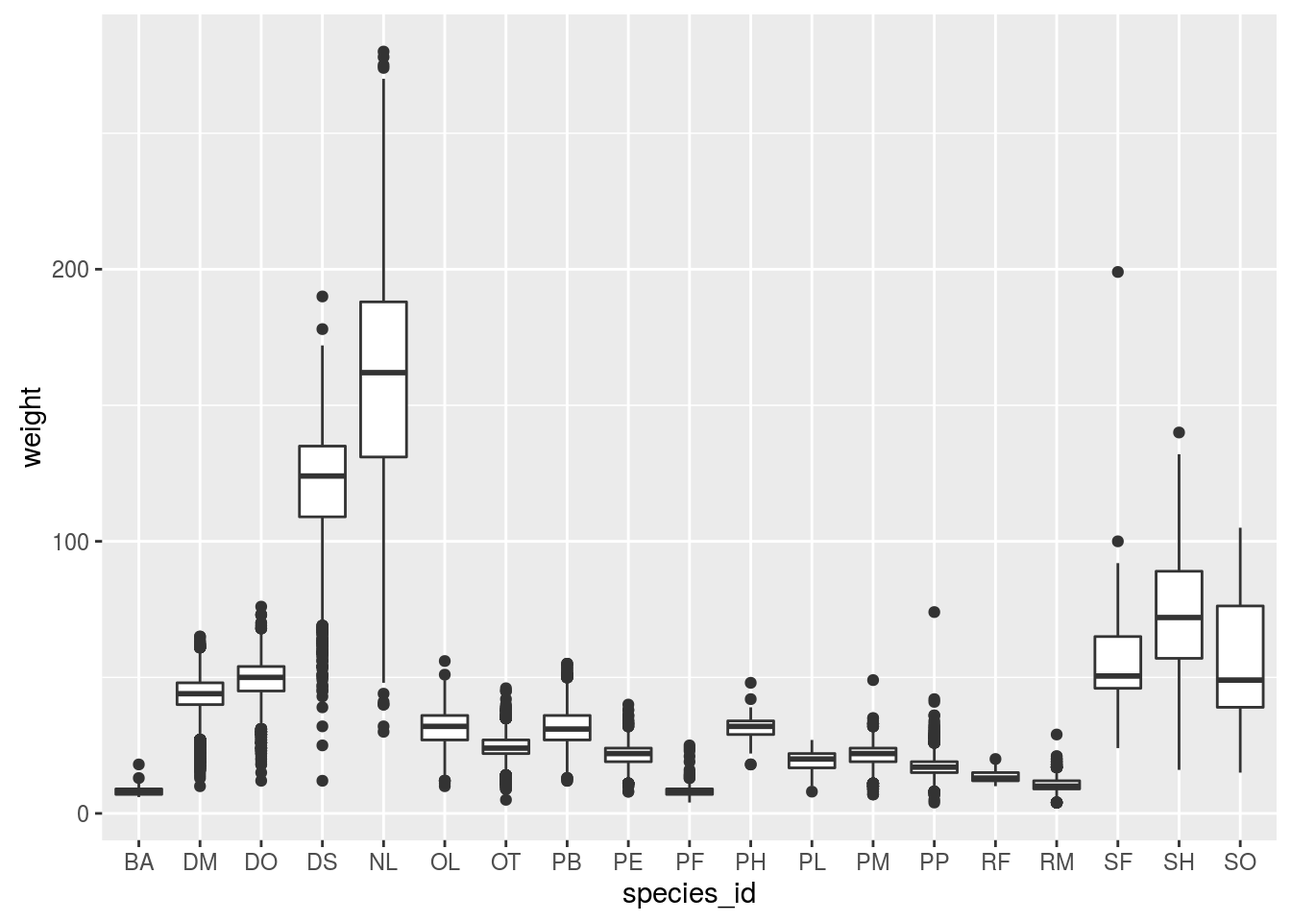
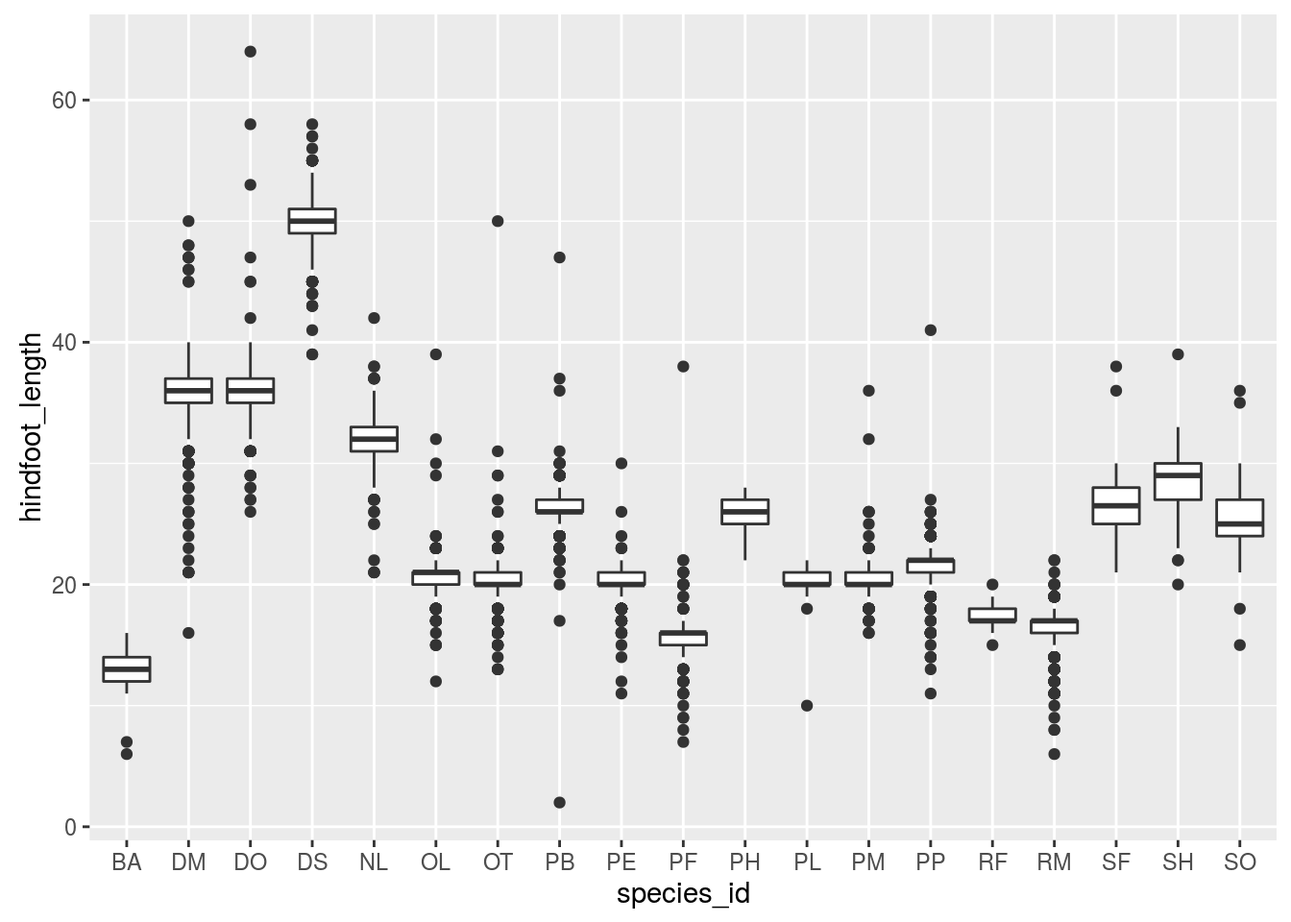
Update ggplot2 (5) tutorial
Added more interesting use of `+` operator for modifying ggplot. This is
a key point for ggplot's usability that was conspicuously absent from
the original tutorial, and I think makes the tutorial easier to follow
(since the improvements are more obviously incremental). I also added a
few other minor changes, such as adding a brief discussion of
`facet_grid` vs. `facet_wrap`.

diff --git a/05-visualization-ggplot2.html b/05-visualization-ggplot2.html
@@ -7,7 +7,7 @@
 <meta charset="utf-8">
 <meta http-equiv="Content-Type" content="text/html; charset=utf-8" />
 <meta name="generator" content="pandoc" />
-<meta name="viewport" content="width=device-width, initial-scale=1">
+
 
 
 
@@ -66,25 +66,7 @@ code > span.in { color: #8f5902; font-weight: bold; font-style: italic; } /* Inf
 </style>
 
 
-
-</head>
-
-<body>
-
-<style type = "text/css">
-.main-container {
-  max-width: 940px;
-  margin-left: auto;
-  margin-right: auto;
-}
-code {
-  color: inherit;
-  background-color: rgba(0, 0, 0, 0.04);
-}
-img {
-  max-width:100%;
-  height: auto;
-}
+<style type="text/css">
 h1 {
   font-size: 34px;
 }
@@ -105,6 +87,30 @@ h5 {
 }
 h6 {
   font-size: 12px;
+}
+.table th:not([align]) {
+  text-align: left;
+}
+</style>
+
+
+</head>
+
+<body>
+
+<style type = "text/css">
+.main-container {
+  max-width: 940px;
+  margin-left: auto;
+  margin-right: auto;
+}
+code {
+  color: inherit;
+  background-color: rgba(0, 0, 0, 0.04);
+}
+img {
+  max-width:100%;
+  height: auto;
 }
 .tabbed-pane {
   padding-top: 12px;
@@ -135,7 +141,8 @@ $(document).ready(function () {
 <div class="fluid-row" id="header">
 
 
-<h1 class="title">Data visualization with ggplot2</h1>
+
+<h1 class="title toc-ignore">Data visualization with ggplot2</h1>
 <h3 class="subtitle"><em>Visualizing data in R with the ggplot2 package</em></h3>
 
 </div>
@@ -154,7 +161,7 @@ $(document).ready(function () {
 <p>Authors: <strong>Mateusz Kuzak</strong>, <strong>Diana Marek</strong>, <strong>Hedi Peterson</strong></p>
 <div id="disclaimer" class="section level4">
 <h4>Disclaimer</h4>
-<p>We will be using the functions in the ggplot2 package. There are basic plotting capabilities in basic R, but ggplot2 adds more powerful plotting capabilities.</p>
+<p>We will be using the functions in the ggplot2 package. R has powerful built-in plotting capabilities, but for this exercise, we will be using the ggplot2 package, which facilitates the creation of highly-informative plots of structured data.</p>
 <blockquote>
 <h3 id="learning-objectives">Learning Objectives</h3>
 <ul>
@@ -234,37 +241,46 @@ surveys_complete &lt;-<span class="st"> </span>surveys_complete %&gt;%
 <div class="sourceCode"><pre class="sourceCode r"><code class="sourceCode r"><span class="kw">ggplot</span>(<span class="dt">data =</span> surveys_complete, <span class="kw">aes</span>(<span class="dt">x =</span> weight, <span class="dt">y =</span> hindfoot_length)) +
 <span class="st">  </span><span class="kw">geom_point</span>()</code></pre></div>
 <p><img src="img/R-ecology-first-ggplot-1.png" title="" alt="" width="672" /></p>
+<p>The <code>+</code> in the <code>ggplot2</code> package is particularly useful because it allows you to modify existing <code>ggplot</code> objects. This means you can easily set up plot “templates” and conveniently explore different types of plots, so the above plot can also be generated with code like this:</p>
+<div class="sourceCode"><pre class="sourceCode r"><code class="sourceCode r"><span class="co"># Create </span>
+surveys_plot &lt;-<span class="st"> </span><span class="kw">ggplot</span>(<span class="dt">data =</span> surveys_complete, <span class="kw">aes</span>(<span class="dt">x =</span> weight, <span class="dt">y =</span> hindfoot_length))
+
+<span class="co"># Draw the plot</span>
+surveys_plot +<span class="st"> </span><span class="kw">geom_point</span>()</code></pre></div>
 <p>Notes:</p>
 <ul>
 <li>Anything you put in the <code>ggplot()</code> function can be seen by any geom layers that you add. i.e. these are universal plot settings</li>
 <li>This includes the x and y axis you set up in <code>aes()</code></li>
+<li>Aesthetics (<code>aes()</code>) can also be added separately from the <code>ggplot()</code> function. In other words, the last plot above can also be achieved with the following code:</li>
 </ul>
+<div class="sourceCode"><pre class="sourceCode r"><code class="sourceCode r"><span class="kw">ggplot</span>(<span class="dt">data =</span> surveys_complete) +<span class="st"> </span>
+<span class="st">    </span><span class="kw">aes</span>(<span class="dt">x =</span> weight, <span class="dt">y =</span> hindfoot_length) +
+<span class="st">    </span><span class="kw">geom_point</span>()</code></pre></div>
 </div>
 <div id="modifying-plots" class="section level2">
 <h2>Modifying plots</h2>
+<p>First, following the notes from above, let’s create a ggplot “template” to prevent unnecessary redundancy in our code.</p>
+<div class="sourceCode"><pre class="sourceCode r"><code class="sourceCode r">surveys_plot &lt;-<span class="st"> </span><span class="kw">ggplot</span>(<span class="dt">data =</span> surveys_complete, <span class="kw">aes</span>(<span class="dt">x =</span> weight, <span class="dt">y =</span> hindfoot_length))</code></pre></div>
 <ul>
 <li>adding transparency (alpha)</li>
 </ul>
-<div class="sourceCode"><pre class="sourceCode r"><code class="sourceCode r"><span class="kw">ggplot</span>(<span class="dt">data =</span> surveys_complete, <span class="kw">aes</span>(<span class="dt">x =</span> weight, <span class="dt">y =</span> hindfoot_length)) +
-<span class="st">  </span><span class="kw">geom_point</span>(<span class="dt">alpha =</span> <span class="fl">0.1</span>)</code></pre></div>
+<div class="sourceCode"><pre class="sourceCode r"><code class="sourceCode r">surveys_plot +<span class="st"> </span><span class="kw">geom_point</span>(<span class="dt">alpha =</span> <span class="fl">0.1</span>)</code></pre></div>
 <p><img src="img/R-ecology-adding-transparency-1.png" title="" alt="" width="672" /></p>
 <ul>
 <li>adding colors</li>
 </ul>
-<div class="sourceCode"><pre class="sourceCode r"><code class="sourceCode r"><span class="kw">ggplot</span>(<span class="dt">data =</span> surveys_complete, <span class="kw">aes</span>(<span class="dt">x =</span> weight, <span class="dt">y =</span> hindfoot_length)) +
-<span class="st">  </span><span class="kw">geom_point</span>(<span class="dt">alpha =</span> <span class="fl">0.1</span>, <span class="dt">color =</span> <span class="st">&quot;blue&quot;</span>)</code></pre></div>
+<div class="sourceCode"><pre class="sourceCode r"><code class="sourceCode r">surveys_plot +<span class="st"> </span><span class="kw">geom_point</span>(<span class="dt">alpha =</span> <span class="fl">0.1</span>, <span class="dt">color =</span> <span class="st">&quot;blue&quot;</span>)</code></pre></div>
 <p><img src="img/R-ecology-adding-colors-1.png" title="" alt="" width="672" /></p>
 </div>
 <div id="boxplot" class="section level2">
 <h2>Boxplot</h2>
 <p>Visualising the distribution of weight within each species.</p>
-<div class="sourceCode"><pre class="sourceCode r"><code class="sourceCode r"><span class="kw">ggplot</span>(<span class="dt">data =</span> surveys_complete, <span class="kw">aes</span>(<span class="dt">x =</span> species_id,  <span class="dt">y =</span> weight)) +
-<span class="st">                   </span><span class="kw">geom_boxplot</span>()</code></pre></div>
+<div class="sourceCode"><pre class="sourceCode r"><code class="sourceCode r">surveys_box &lt;-<span class="st"> </span><span class="kw">ggplot</span>(<span class="dt">data =</span> surveys_complete) +<span class="st"> </span>
+<span class="st">    </span><span class="kw">aes</span>(<span class="dt">x =</span> species_id, <span class="dt">y =</span> hindfoot_length)
+surveys_box +<span class="st"> </span><span class="kw">geom_boxplot</span>()</code></pre></div>
 <p><img src="img/R-ecology-boxplot-1.png" title="" alt="" width="672" /></p>
 <p>By adding points to boxplot, we can see particular measurements and the abundance of measurements.</p>
-<div class="sourceCode"><pre class="sourceCode r"><code class="sourceCode r"><span class="kw">ggplot</span>(<span class="dt">data =</span> surveys_complete, <span class="kw">aes</span>(<span class="dt">x =</span> species_id, <span class="dt">y =</span> weight)) +
-<span class="st">                   </span><span class="kw">geom_jitter</span>(<span class="dt">alpha =</span> <span class="fl">0.3</span>, <span class="dt">color =</span> <span class="st">&quot;tomato&quot;</span>) +
-<span class="st">                   </span><span class="kw">geom_boxplot</span>(<span class="dt">alpha =</span> <span class="dv">0</span>)</code></pre></div>
+<div class="sourceCode"><pre class="sourceCode r"><code class="sourceCode r">surveys_box +<span class="st"> </span><span class="kw">geom_jitter</span>(<span class="dt">alpha =</span> <span class="fl">0.3</span>, <span class="dt">color =</span> <span class="st">&quot;tomato&quot;</span>) +<span class="st"> </span><span class="kw">geom_boxplot</span>(<span class="dt">alpha =</span> <span class="dv">0</span>)</code></pre></div>
 <p><img src="img/R-ecology-boxplot-with-points-1.png" title="" alt="" width="672" /></p>
 <p>Notice how the boxplot layer is on top of the jitter layer? Play around with the order of geoms and adjust transparency to see how to build up your plot in layers.</p>
 <blockquote>
@@ -293,25 +309,24 @@ surveys_complete &lt;-<span class="st"> </span>surveys_complete %&gt;%
 <p>Let’s calculate number of counts per year for each species. To do that we need to group data first and count records within each group.</p>
 <div class="sourceCode"><pre class="sourceCode r"><code class="sourceCode r">yearly_counts &lt;-<span class="st"> </span>surveys_complete %&gt;%
 <span class="st">                 </span><span class="kw">group_by</span>(year, species_id) %&gt;%
-<span class="st">                 </span>tally</code></pre></div>
+<span class="st">                 </span>tally
+yearly_counts_plot &lt;-<span class="st"> </span><span class="kw">ggplot</span>(<span class="dt">data =</span> yearly_counts, <span class="kw">aes</span>(<span class="dt">x =</span> year, <span class="dt">y =</span> n))</code></pre></div>
 <p>Timelapse data can be visualised as a line plot with years on x axis and counts on y axis.</p>
-<div class="sourceCode"><pre class="sourceCode r"><code class="sourceCode r"><span class="kw">ggplot</span>(<span class="dt">data =</span> yearly_counts, <span class="kw">aes</span>(<span class="dt">x =</span> year, <span class="dt">y =</span> n)) +
-<span class="st">                  </span><span class="kw">geom_line</span>()</code></pre></div>
+<div class="sourceCode"><pre class="sourceCode r"><code class="sourceCode r">yearly_counts_plot +<span class="st"> </span><span class="kw">geom_line</span>()</code></pre></div>
 <p><img src="img/R-ecology-first-time-series-1.png" title="" alt="" width="672" /></p>
-<p>Unfortunately this does not work, because we plot data for all the species together. We need to tell ggplot to split graphed data by <code>species_id</code></p>
-<div class="sourceCode"><pre class="sourceCode r"><code class="sourceCode r"><span class="kw">ggplot</span>(<span class="dt">data =</span> yearly_counts, <span class="kw">aes</span>(<span class="dt">x =</span> year, <span class="dt">y =</span> n, <span class="dt">group =</span> species_id)) +
-<span class="st">  </span><span class="kw">geom_line</span>()</code></pre></div>
+<p>Unfortunately this does not work, because we plot data for all the species together. We need to tell ggplot to split graphed data by <code>species_id</code>. Notice that <code>+</code> can be conveniently used to modify the default aesthetic mappings (currently set to <code>x = year, y = n</code>).</p>
+<div class="sourceCode"><pre class="sourceCode r"><code class="sourceCode r">yearly_counts_plot +<span class="st"> </span><span class="kw">aes</span>(<span class="dt">group =</span> species_id) +<span class="st"> </span><span class="kw">geom_line</span>()</code></pre></div>
 <p><img src="img/R-ecology-time-series-by-species-1.png" title="" alt="" width="672" /></p>
 <p>We will be able to distinguish species in the plot if we add colors.</p>
-<div class="sourceCode"><pre class="sourceCode r"><code class="sourceCode r"><span class="kw">ggplot</span>(<span class="dt">data =</span> yearly_counts, <span class="kw">aes</span>(<span class="dt">x =</span> year, <span class="dt">y =</span> n, <span class="dt">group =</span> species_id, <span class="dt">color =</span> species_id)) +
-<span class="st">  </span><span class="kw">geom_line</span>()</code></pre></div>
+<div class="sourceCode"><pre class="sourceCode r"><code class="sourceCode r">yearly_counts_plot +<span class="st"> </span><span class="kw">aes</span>(<span class="dt">color =</span> species_id) +<span class="st"> </span><span class="kw">geom_line</span>()</code></pre></div>
 <p><img src="img/R-ecology-time-series-with-colors-1.png" title="" alt="" width="672" /></p>
 </div>
 <div id="faceting" class="section level2">
 <h2>Faceting</h2>
 <p>ggplot has a special technique called <em>faceting</em> that allows to split one plot into multiple plots based on some factor. We will use it to plot one time series for each species separately.</p>
-<div class="sourceCode"><pre class="sourceCode r"><code class="sourceCode r"><span class="kw">ggplot</span>(<span class="dt">data =</span> yearly_counts, <span class="kw">aes</span>(<span class="dt">x =</span> year, <span class="dt">y =</span> n, <span class="dt">color =</span> species_id)) +
-<span class="st">  </span><span class="kw">geom_line</span>() +<span class="st"> </span><span class="kw">facet_wrap</span>(~species_id)</code></pre></div>
+<div class="sourceCode"><pre class="sourceCode r"><code class="sourceCode r">yearly_counts_color &lt;-<span class="st"> </span>yearly_counts_plot +<span class="st"> </span>
+<span class="st">    </span><span class="kw">aes</span>(<span class="dt">group =</span> species_id, <span class="dt">color =</span> species_id)
+yearly_counts_color +<span class="st"> </span><span class="kw">geom_line</span>() +<span class="st"> </span><span class="kw">facet_wrap</span>(~species_id)</code></pre></div>
 <p><img src="img/R-ecology-first-facet-1.png" title="" alt="" width="672" /></p>
 <p>Now we would like to split line in each plot by sex of each individual measured. To do that we need to make counts in dataframe grouped by sex.</p>
 <blockquote>
@@ -336,18 +351,22 @@ surveys_complete &lt;-<span class="st"> </span>surveys_complete %&gt;%
 <li>make the faceted plot splitting further by sex (within single plot)</li>
 </ul>
 </blockquote>
-<div class="sourceCode"><pre class="sourceCode r"><code class="sourceCode r"><span class="kw">ggplot</span>(<span class="dt">data =</span> yearly_sex_counts, <span class="kw">aes</span>(<span class="dt">x =</span> year, <span class="dt">y =</span> n, <span class="dt">color =</span> species_id, <span class="dt">group =</span> sex)) +
-<span class="st">  </span><span class="kw">geom_line</span>() +<span class="st"> </span><span class="kw">facet_wrap</span>(~<span class="st"> </span>species_id)</code></pre></div>
+<div class="sourceCode"><pre class="sourceCode r"><code class="sourceCode r">yearly_sex_gender_plot &lt;-<span class="st"> </span><span class="kw">ggplot</span>(<span class="dt">data =</span> yearly_sex_counts) +<span class="st"> </span>
+<span class="st">    </span><span class="kw">aes</span>(<span class="dt">x =</span> year, <span class="dt">y =</span> n, <span class="dt">color =</span> species_id, <span class="dt">group =</span> sex) +
+<span class="st">    </span><span class="kw">geom_line</span>() +<span class="st"> </span>
+<span class="st">    </span><span class="kw">facet_wrap</span>(~<span class="st"> </span>species_id)
+
+<span class="co"># Draw plot</span>
+yearly_sex_gender_plot</code></pre></div>
 <p><img src="img/R-ecology-facet-by-species-and-sex-1.png" title="" alt="" width="672" /></p>
 <p>Usually plots with white background looks more readable in the publications. We can set the background to white using the function <code>theme_bw()</code>.</p>
-<div class="sourceCode"><pre class="sourceCode r"><code class="sourceCode r"><span class="kw">ggplot</span>(<span class="dt">data =</span> yearly_sex_counts, <span class="kw">aes</span>(<span class="dt">x =</span> year, <span class="dt">y =</span> n, <span class="dt">color =</span> species_id, <span class="dt">group =</span> sex)) +
-<span class="st">  </span><span class="kw">geom_line</span>() +<span class="st"> </span><span class="kw">facet_wrap</span>(~<span class="st"> </span>species_id) +<span class="st"> </span><span class="kw">theme_bw</span>()</code></pre></div>
+<div class="sourceCode"><pre class="sourceCode r"><code class="sourceCode r">yearly_sex_gender_plot +<span class="st"> </span><span class="kw">theme_bw</span>()</code></pre></div>
 <p><img src="img/R-ecology-facet-by-species-and-sex-white-bg-1.png" title="" alt="" width="672" /></p>
 <blockquote>
-<p>We can improve the plot by coloring by sex instead of species (species are already in separate plots, so we don’t need to distinguish them better)</p>
+<p>We can improve the plot by coloring by sex instead of species (species are already in separate plots, so we don’t need to distinguish them further).</p>
 </blockquote>
-<div class="sourceCode"><pre class="sourceCode r"><code class="sourceCode r"><span class="kw">ggplot</span>(<span class="dt">data =</span> yearly_sex_counts, <span class="kw">aes</span>(<span class="dt">x =</span> year, <span class="dt">y =</span> n, <span class="dt">color =</span> sex, <span class="dt">group =</span> sex)) +
-<span class="st">  </span><span class="kw">geom_line</span>() +<span class="st"> </span><span class="kw">facet_wrap</span>(~<span class="st"> </span>species_id) +<span class="st"> </span><span class="kw">theme_bw</span>()</code></pre></div>
+<p>Note that even though the <code>color</code> and <code>group</code> aesthetic mappings are set, I can <em>redefine them</em> via the <code>+</code> operator.</p>
+<div class="sourceCode"><pre class="sourceCode r"><code class="sourceCode r">yearly_sex_gender_plot +<span class="st"> </span><span class="kw">aes</span>(<span class="dt">color=</span>sex, <span class="dt">group=</span>sex) +<span class="st"> </span><span class="kw">theme_bw</span>()</code></pre></div>
 <p><img src="img/R-ecology-facet-by-species-and-sex-colored-1.png" title="" alt="" width="672" /></p>
 <blockquote>
 <ul>
@@ -357,49 +376,65 @@ surveys_complete &lt;-<span class="st"> </span>surveys_complete %&gt;%
 <div class="sourceCode"><pre class="sourceCode r"><code class="sourceCode r">yearly_weight &lt;-<span class="st"> </span>surveys_complete %&gt;%
 <span class="st">                 </span><span class="kw">group_by</span>(year, species_id, sex) %&gt;%
 <span class="st">                 </span><span class="kw">summarise</span>(<span class="dt">avg_weight =</span> <span class="kw">mean</span>(weight, <span class="dt">na.rm =</span> <span class="ot">TRUE</span>))
-<span class="kw">ggplot</span>(<span class="dt">data =</span> yearly_weight, <span class="kw">aes</span>(<span class="dt">x=</span>year, <span class="dt">y=</span>avg_weight, <span class="dt">color =</span> species_id, <span class="dt">group =</span> species_id)) +
-<span class="st">  </span><span class="kw">geom_line</span>() +<span class="st"> </span><span class="kw">theme_bw</span>()</code></pre></div>
+yearly_weight_plot &lt;-<span class="st"> </span><span class="kw">ggplot</span>(<span class="dt">data =</span> yearly_weight) +<span class="st"> </span>
+<span class="st">    </span><span class="kw">aes</span>(<span class="dt">x=</span>year, <span class="dt">y=</span>avg_weight, <span class="dt">color =</span> species_id, <span class="dt">group =</span> species_id) +
+<span class="st">    </span><span class="kw">geom_line</span>() +<span class="st"> </span><span class="kw">theme_bw</span>()
+yearly_weight_plot</code></pre></div>
 <p><img src="img/R-ecology-average-weight-timeseries-1.png" title="" alt="" width="672" /></p>
 <blockquote>
 <ul>
 <li>why do you think we see those steps in the plot?</li>
+</ul>
+</blockquote>
+<p>The <code>facet_wrap</code> geometry extracts plots into an arbitrary number of dimensions to allow them to cleanly fit on one page. On the other hand, the <code>facet_grid</code> geometry allows you to explicitly specify how you want your plots to be arranged via formula notation (<code>rows ~ columns</code>; a <code>.</code> can be used as a placeholder that indicates only one row or column).</p>
+<blockquote>
+<ul>
 <li>make separate plots per sex since weight of males and females can differ a lot</li>
 </ul>
 </blockquote>
-<div class="sourceCode"><pre class="sourceCode r"><code class="sourceCode r"><span class="kw">ggplot</span>(<span class="dt">data =</span> yearly_weight, <span class="kw">aes</span>(<span class="dt">x=</span>year, <span class="dt">y=</span>avg_weight, <span class="dt">color =</span> species_id, <span class="dt">group =</span> species_id)) +
-<span class="st">  </span><span class="kw">geom_line</span>() +<span class="st"> </span><span class="kw">facet_wrap</span>(~<span class="st"> </span>sex) +<span class="st"> </span><span class="kw">theme_bw</span>()</code></pre></div>
-<p><img src="img/R-ecology-average-weight-time-facet_sex-1.png" title="" alt="" width="672" /></p>
-<p>So far our result looks quite good, but it is yet far from being publishable. What are other ways one can improve it? Take a look at the ggplot2 cheat sheet (<a href="https://www.rstudio.com/wp-content/uploads/2015/08/ggplot2-cheatsheet.pdf" class="uri">https://www.rstudio.com/wp-content/uploads/2015/08/ggplot2-cheatsheet.pdf</a>), and write down at least three more ideas (can leave them as comments to Etherpad).</p>
-<p>Now, let’s change names of axes to something more informative than ‘year’ and ‘n’ and add title to this figure:</p>
-<div class="sourceCode"><pre class="sourceCode r"><code class="sourceCode r"><span class="kw">ggplot</span>(<span class="dt">data =</span> yearly_sex_counts, <span class="kw">aes</span>(<span class="dt">x =</span> year, <span class="dt">y =</span> n, <span class="dt">color =</span> sex, <span class="dt">group =</span> sex)) +
-<span class="st">  </span><span class="kw">geom_line</span>() +
-<span class="st">  </span><span class="kw">facet_wrap</span>(~<span class="st"> </span>species_id) +
-<span class="st">  </span><span class="kw">labs</span>(<span class="dt">title =</span> <span class="st">&#39;Observed species in time&#39;</span>,
-       <span class="dt">x =</span> <span class="st">&#39;Year of observation&#39;</span>,
-       <span class="dt">y =</span> <span class="st">&#39;Number of species&#39;</span>) +<span class="st"> </span><span class="kw">theme_bw</span>()</code></pre></div>
-<p><img src="img/R-ecology-number_species_year_with_right_labels-1.png" title="" alt="" width="672" /></p>
-<p>Now, thanks to our efforts, axes have much more informative names, yet quite small so it could be hard to read them. Let’s change their size (and font just in sake of fun):</p>
-<div class="sourceCode"><pre class="sourceCode r"><code class="sourceCode r"><span class="kw">ggplot</span>(<span class="dt">data =</span> yearly_sex_counts, <span class="kw">aes</span>(<span class="dt">x =</span> year, <span class="dt">y =</span> n, <span class="dt">color =</span> sex, <span class="dt">group =</span> sex)) +
-<span class="st">  </span><span class="kw">geom_line</span>() +
-<span class="st">  </span><span class="kw">facet_wrap</span>(~<span class="st"> </span>species_id) +
-<span class="st">  </span><span class="kw">labs</span>(<span class="dt">title =</span> <span class="st">&#39;Observed species in time&#39;</span>,
-       <span class="dt">x =</span> <span class="st">&#39;Year of observation&#39;</span>,
-       <span class="dt">y =</span> <span class="st">&#39;Number of species&#39;</span>) +
-<span class="st">  </span><span class="kw">theme</span>(<span class="dt">text=</span><span class="kw">element_text</span>(<span class="dt">size=</span><span class="dv">16</span>, <span class="dt">family=</span><span class="st">&quot;Arial&quot;</span>)) +<span class="st"> </span><span class="kw">theme_bw</span>()</code></pre></div>
-<p><img src="img/R-ecology-number_species_year_with_right_labels_xfont_size-1.png" title="" alt="" width="672" /></p>
-<p>After our manipulations we notice that the values on the x-axis are still not properly readable. Let’s change the orientation of the labels and adjust them vertically and horizontally so they don’t overlap. You can use a 90 degree angle, or experiment to find the appropriate angle for diagonally oriented labels.</p>
-<div class="sourceCode"><pre class="sourceCode r"><code class="sourceCode r"><span class="kw">ggplot</span>(<span class="dt">data =</span> yearly_sex_counts, <span class="kw">aes</span>(<span class="dt">x =</span> year, <span class="dt">y =</span> n, <span class="dt">color =</span> sex, <span class="dt">group =</span> sex)) +
+<div class="sourceCode"><pre class="sourceCode r"><code class="sourceCode r"><span class="co"># One column, facet by rows </span>
+yearly_weight_plot +<span class="st"> </span><span class="kw">facet_grid</span>(sex ~<span class="st"> </span>.)</code></pre></div>
+<p><img src="img/R-ecology-average-weight-time-facet_sex_rows-1.png" title="" alt="" width="672" /></p>
+<div class="sourceCode"><pre class="sourceCode r"><code class="sourceCode r"><span class="co"># One row, facet by column</span>
+yearly_weight_plot +<span class="st"> </span><span class="kw">facet_grid</span>(. ~<span class="st"> </span>sex)</code></pre></div>
+<p><img src="img/R-ecology-average-weight-time-facet_sex_columns-1.png" title="" alt="" width="672" /></p>
+<p>So far our result looks quite good, but is far from being publishable. What are other ways one can improve it? Take a look at the ggplot2 cheat sheet (<a href="https://www.rstudio.com/wp-content/uploads/2015/08/ggplot2-cheatsheet.pdf" class="uri">https://www.rstudio.com/wp-content/uploads/2015/08/ggplot2-cheatsheet.pdf</a>), and write down at least three more ideas (you can leave them as comments to the Etherpad).</p>
+<p>Now, let’s change names of axes to something more informative than ‘year’ and ‘n’ and add a title to this figure:</p>
+<div class="sourceCode"><pre class="sourceCode r"><code class="sourceCode r">plt_with_labels &lt;-<span class="st"> </span><span class="kw">ggplot</span>(<span class="dt">data =</span> yearly_sex_counts) +<span class="st"> </span>
+<span class="st">    </span><span class="kw">aes</span>(<span class="dt">x =</span> year, <span class="dt">y =</span> n, <span class="dt">color =</span> sex, <span class="dt">group =</span> sex) +
 <span class="st">    </span><span class="kw">geom_line</span>() +
 <span class="st">    </span><span class="kw">facet_wrap</span>(~<span class="st"> </span>species_id) +
-<span class="st">    </span><span class="kw">theme_bw</span>() +
-<span class="st">    </span><span class="kw">theme</span>(<span class="dt">axis.text.x =</span> <span class="kw">element_text</span>(<span class="dt">colour=</span><span class="st">&quot;grey20&quot;</span>, <span class="dt">size=</span><span class="dv">12</span>, <span class="dt">angle=</span><span class="dv">90</span>, <span class="dt">hjust=</span>.<span class="dv">5</span>, <span class="dt">vjust=</span>.<span class="dv">5</span>),
-          <span class="dt">axis.text.y =</span> <span class="kw">element_text</span>(<span class="dt">colour=</span><span class="st">&quot;grey20&quot;</span>, <span class="dt">size=</span><span class="dv">12</span>),
-          <span class="dt">text=</span><span class="kw">element_text</span>(<span class="dt">size=</span><span class="dv">16</span>, <span class="dt">family=</span><span class="st">&quot;Arial&quot;</span>)) +
 <span class="st">    </span><span class="kw">labs</span>(<span class="dt">title =</span> <span class="st">&#39;Observed species in time&#39;</span>,
-         <span class="dt">x =</span> <span class="st">&#39;Year of observation&#39;</span>,
-         <span class="dt">y =</span> <span class="st">&#39;Number of species&#39;</span>)</code></pre></div>
+        <span class="dt">x =</span> <span class="st">&#39;Year of observation&#39;</span>,
+        <span class="dt">y =</span> <span class="st">&#39;Number of species&#39;</span>) +<span class="st"> </span><span class="kw">theme_bw</span>()
+
+plt_with_labels</code></pre></div>
+<p><img src="img/R-ecology-number_species_year_with_right_labels-1.png" title="" alt="" width="672" /></p>
+<p>Thanks to our efforts, the axes have much more informative names, but are still quite small and hard to read. Let’s change their size (and font just for fun):</p>
+<div class="sourceCode"><pre class="sourceCode r"><code class="sourceCode r">plt_with_labels +<span class="st"> </span><span class="kw">theme</span>(<span class="dt">text=</span><span class="kw">element_text</span>(<span class="dt">size=</span><span class="dv">16</span>, <span class="dt">family=</span><span class="st">&quot;Arial&quot;</span>))</code></pre></div>
+<p><img src="img/R-ecology-number_species_year_with_right_labels_xfont_size-1.png" title="" alt="" width="672" /></p>
+<p>After our manipulations we notice that the values on the x-axis are still not properly readable. Let’s change the orientation of the labels and adjust them vertically and horizontally so they don’t overlap. You can use a 90 degree angle, or experiment to find the appropriate angle for diagonally oriented labels.</p>
+<div class="sourceCode"><pre class="sourceCode r"><code class="sourceCode r">arial_grey_theme &lt;-<span class="st"> </span><span class="kw">theme</span>(<span class="dt">axis.text.x =</span> <span class="kw">element_text</span>(<span class="dt">colour=</span><span class="st">&quot;grey20&quot;</span>, <span class="dt">size=</span><span class="dv">12</span>, <span class="dt">angle=</span><span class="dv">90</span>, <span class="dt">hjust=</span>.<span class="dv">5</span>, <span class="dt">vjust=</span>.<span class="dv">5</span>),
+                        <span class="dt">axis.text.y =</span> <span class="kw">element_text</span>(<span class="dt">colour=</span><span class="st">&quot;grey20&quot;</span>, <span class="dt">size=</span><span class="dv">12</span>),
+                        <span class="dt">text=</span><span class="kw">element_text</span>(<span class="dt">size=</span><span class="dv">16</span>, <span class="dt">family=</span><span class="st">&quot;Arial&quot;</span>))
+plt_with_labels +<span class="st"> </span>arial_grey_theme</code></pre></div>
 <p><img src="img/R-ecology-number_species_year_with_right_labels_xfont_orientation-1.png" title="" alt="" width="672" /></p>
-<p>Now, labels became bigger and readable, but there are still few things that one could be improved. Please, take another five minutes and try to add another one or two things, to make it look even more beautiful. Use ggplot2 cheat sheet, which we linked earlier for inspiration.</p>
+<p>Note that themes (and any other individual components of ggplot-based objects) can be saved to variables for convenient access, as the previous code block demonstrates. A useful application of this is that you can define a global theme that contains text fonts and sizes, plot margins, etc. that you’d like to apply to all of your plots and then selectively modify this theme for individual plots without having to type out every setting each time.</p>
+<div class="sourceCode"><pre class="sourceCode r"><code class="sourceCode r"><span class="co"># Setup plots</span>
+global_theme &lt;-<span class="st"> </span><span class="kw">theme</span>(...)
+plot1_theme &lt;-<span class="st"> </span><span class="kw">theme</span>(...)
+plot2_theme &lt;-<span class="st"> </span><span class="kw">theme</span>(...)
+plot_template &lt;-<span class="st"> </span><span class="kw">ggplot</span>() +<span class="st"> </span><span class="kw">aes</span>(...)
+plot1_aes &lt;-<span class="st"> </span><span class="kw">aes</span>(...)   ## Additional custom aesthetic mappings for plot1
+plot2_aes &lt;-<span class="st"> </span><span class="kw">aes</span>(...)   ## Additional custom aesthetic mappings for plot2
+plot1 &lt;-<span class="st"> </span>plot_template +<span class="st"> </span>plot1_aes +<span class="st"> </span><span class="kw">geom_point</span>(...) +<span class="st"> </span>global_theme +<span class="st"> </span>plot1_theme
+plot2 &lt;-<span class="st"> </span>plot_template +<span class="st"> </span>plot2_aes +<span class="st"> </span><span class="kw">geom_line</span>(...) +<span class="st"> </span>global_theme +<span class="st"> </span>plot2_theme
+
+<span class="co"># Draw plots</span>
+plot1
+plot2</code></pre></div>
+<p>Be aware that when overwriting settings via the <code>+</code> operator, order matters. That is, <code>global_theme + plot1_theme</code> will overwrite any settings in <code>global_theme</code> with those in <code>plot1_theme</code>, whereas <code>plot1_theme + global_theme</code> will overwrite any settings in <code>plot1_theme</code> with those in <code>global_theme</code>. This only applies to settings that you set, however – if the <code>plot1</code> and <code>global</code> themes don’t share any common settings (i.e. are mutually exclusive), neither will be affected by the other.</p>
+<p>With all of this information in hand, please take another five minutes to either improve one of the plots generated in this exercise or create a beautiful graph of your own. Use the ggplot2 cheat sheet, which we linked earlier for inspiration.</p>
 <p>Here are some ideas:</p>
 <ul>
 <li>See if you can change thickness of the lines.</li>
@@ -407,7 +442,8 @@ surveys_complete &lt;-<span class="st"> </span>surveys_complete %&gt;%
 <li>Use different color palette to improve the look (<a href="http://www.cookbook-r.com/Graphs/Colors_(ggplot2)/" class="uri">http://www.cookbook-r.com/Graphs/Colors_(ggplot2)/</a>)</li>
 </ul>
 <p>When you created your perfect plot. You can save it to the file in your favourite format. You can easily change the size by specifying the width and height of your plot.</p>
-<div class="sourceCode"><pre class="sourceCode r"><code class="sourceCode r"><span class="kw">ggsave</span>(<span class="st">&quot;observed_species_in_time.png&quot;</span>, <span class="dt">width=</span><span class="dv">15</span>, <span class="dt">height=</span><span class="dv">10</span>)</code></pre></div>
+<div class="sourceCode"><pre class="sourceCode r"><code class="sourceCode r">your_plot_here      <span class="co"># Draw the plot to the screen</span>
+<span class="kw">ggsave</span>(<span class="st">&quot;name_of_file.png&quot;</span>, <span class="dt">width=</span><span class="dv">15</span>, <span class="dt">height=</span><span class="dv">10</span>)</code></pre></div>
 <p>Enjoy plotting with ggplot2!</p>
 </div>
 
